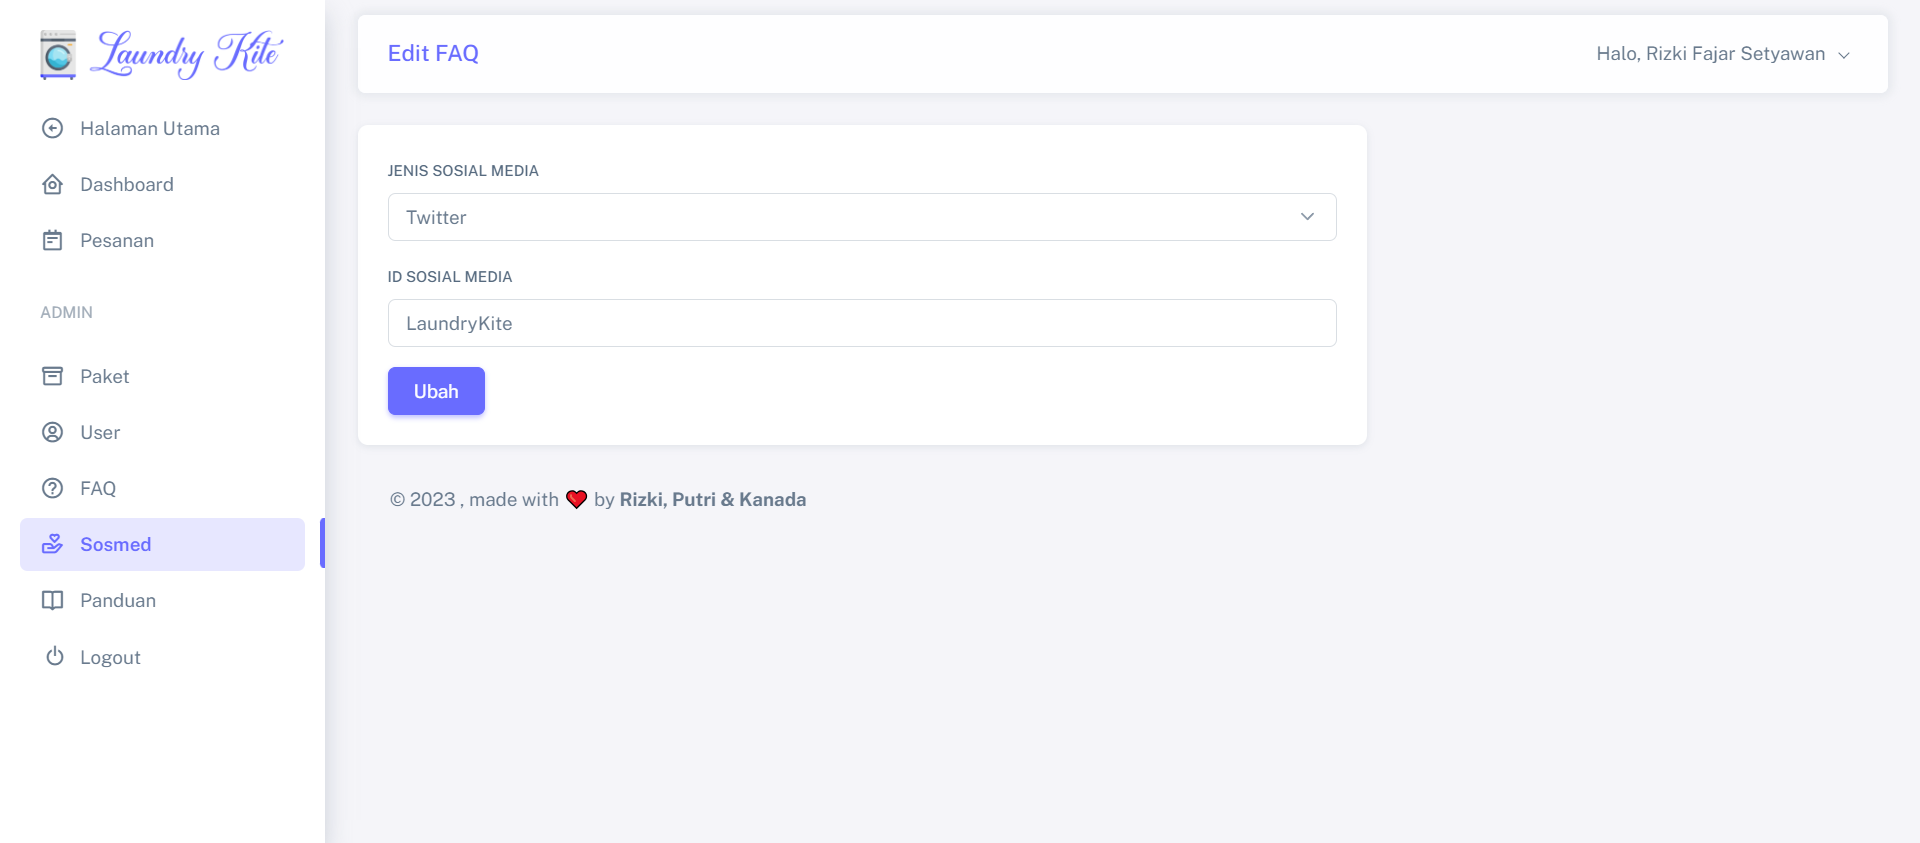
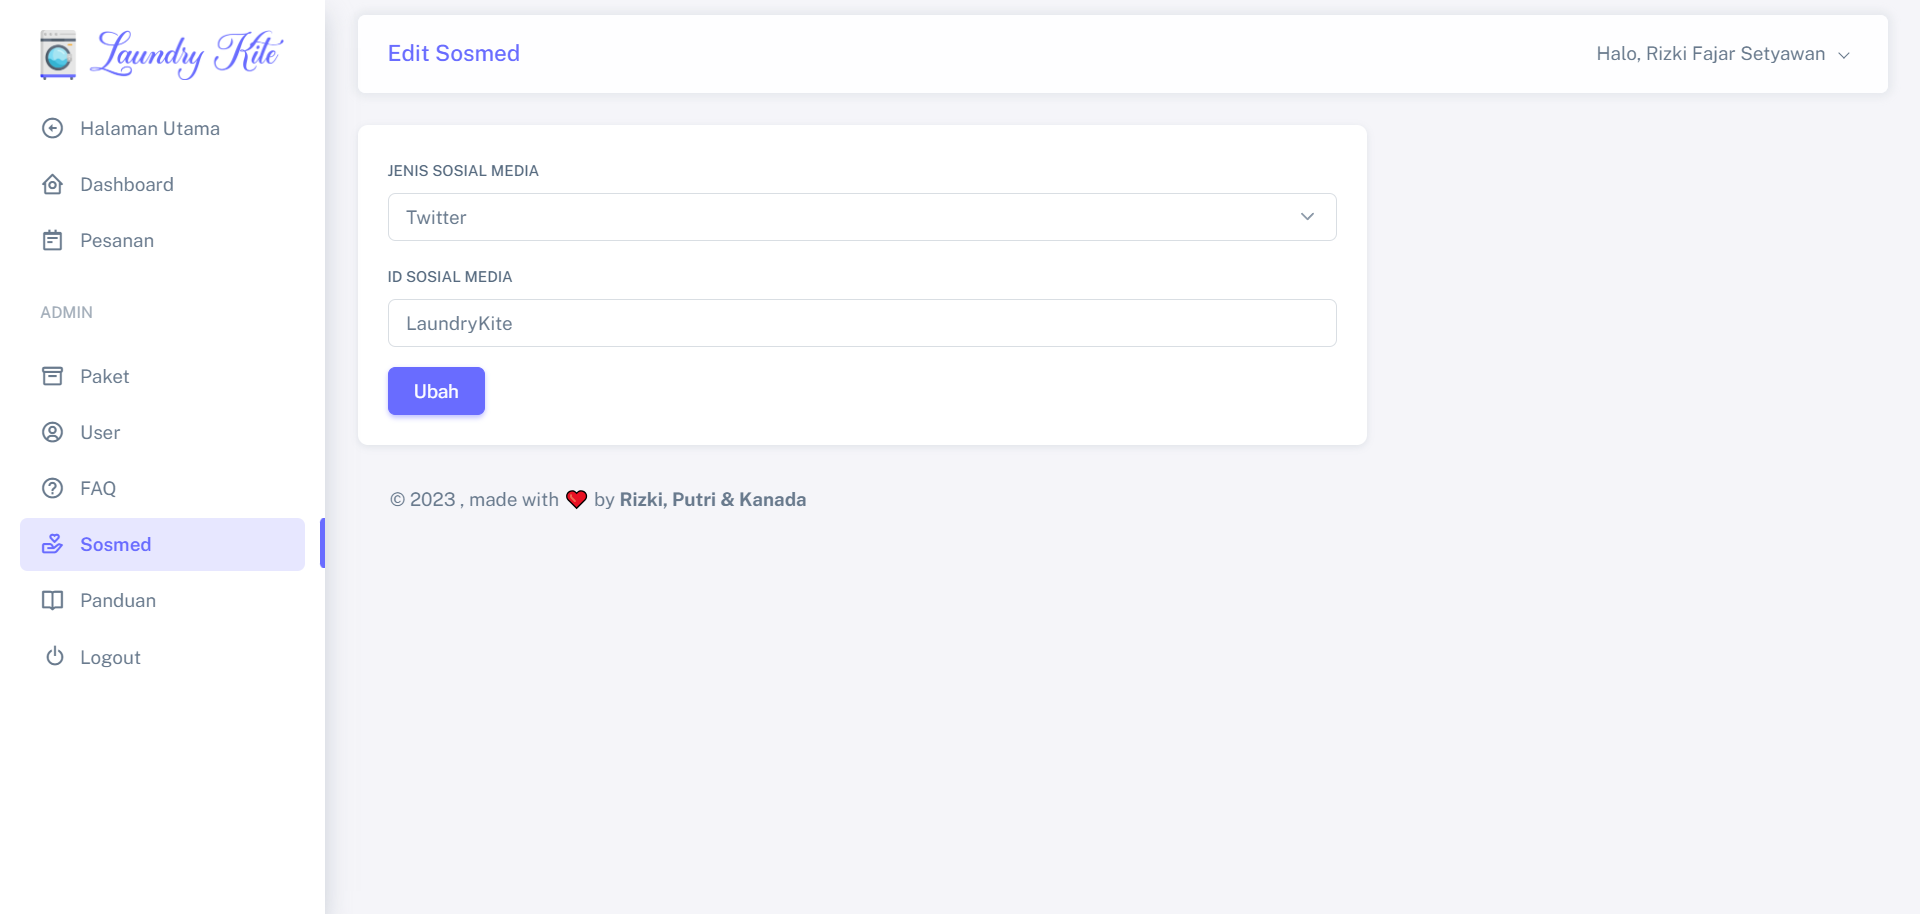
perbaiki typo, ganti gambar & update view panduan sosmed

diff --git a/resources/views/dashboard/sosmed/edit.blade.php b/resources/views/dashboard/sosmed/edit.blade.php
@@ -1,48 +1,50 @@
 @extends('layouts.admin')
 @section('judul')
-Edit FAQ
+    Edit Sosmed
 @endsection
 @section('content')
-<!-- Content -->
+    <!-- Content -->
 
-<div class="container-xxl flex-grow-1 container-p-y">   
-    <!-- Hoverable Table rows -->
-              <div class="row">
-                <div class="col-lg-8 col-sm-12 col-md-12">                     
-                  @if ($errors->any())
-                  <div class="alert alert-danger">
-                      <strong>Error!</strong> <br>
-                      <ul>
-                          @foreach ($errors->all() as $error)
-                              <li>{{ $error }}</li>
-                          @endforeach
-                      </ul>
-                  </div>
-                  @endif
-                  <div class="card mb-4">
-                    <div class="card-body">
-                      <form action="{{ route('sosmed.update',$sosmed->id) }}" method="POST">
-                        @csrf
-                        @method('PUT')
-                        <div class="mb-3">
-                          <label for="exampleFormControlSelect1" class="form-label">Jenis Sosial Media</label>
-                          <select class="form-select" id="jenis"  name="jenis" aria-label="Default select example">
-                            <option selected="" value="{{ $sosmed->jenis }}">{{ $sosmed->jenis }}</option>
-                            <option value="Twitter">Twitter</option>
-                            <option value="Facebook">Facebook</option>
-                            <option value="Instagram">Instagram</option>
-                            <option value="LinkedIn">LinkedIn</option>
-                          </select>
-                        </div>
-                        <div class="mb-3">
-                          <label class="form-label" for="basic-default-fullname">ID Sosial Media</label>
-                          <input name="sosmed_id" type="text" class="form-control" id="sosmed_id"  value="{{ $sosmed->sosmed_id }}"/>
-                        </div>
-                        <button type="submit" class="btn btn-primary">Ubah</button>
-                      </form>
+    <div class="container-xxl flex-grow-1 container-p-y">
+        <!-- Hoverable Table rows -->
+        <div class="row">
+            <div class="col-lg-8 col-sm-12 col-md-12">
+                @if ($errors->any())
+                    <div class="alert alert-danger">
+                        <strong>Error!</strong> <br>
+                        <ul>
+                            @foreach ($errors->all() as $error)
+                                <li>{{ $error }}</li>
+                            @endforeach
+                        </ul>
                     </div>
-                  </div>
+                @endif
+                <div class="card mb-4">
+                    <div class="card-body">
+                        <form action="{{ route('sosmed.update', $sosmed->id) }}" method="POST">
+                            @csrf
+                            @method('PUT')
+                            <div class="mb-3">
+                                <label for="exampleFormControlSelect1" class="form-label">Jenis Sosial Media</label>
+                                <select class="form-select" id="jenis" name="jenis"
+                                    aria-label="Default select example">
+                                    <option selected="" value="{{ $sosmed->jenis }}">{{ $sosmed->jenis }}</option>
+                                    <option value="Twitter">Twitter</option>
+                                    <option value="Facebook">Facebook</option>
+                                    <option value="Instagram">Instagram</option>
+                                    <option value="LinkedIn">LinkedIn</option>
+                                </select>
+                            </div>
+                            <div class="mb-3">
+                                <label class="form-label" for="basic-default-fullname">ID Sosial Media</label>
+                                <input name="sosmed_id" type="text" class="form-control" id="sosmed_id"
+                                    value="{{ $sosmed->sosmed_id }}" />
+                            </div>
+                            <button type="submit" class="btn btn-primary">Ubah</button>
+                        </form>
+                    </div>
                 </div>
-              </div>
-    <!-- / Content -->
+            </div>
+        </div>
+        <!-- / Content -->
     @endsection

diff --git a/resources/views/dashboard/panduan/sosmed.blade.php b/resources/views/dashboard/panduan/sosmed.blade.php
@@ -33,21 +33,22 @@
                                 <div class="card-body">
                                     <h5 class="card-title">Panduan - Mengedit Sosmed</h5>
                                     <p class="card-text">Pada panduan ini sebagai seorang admin anda dapat mengedit sosmed
-                                        yang digunakan pada Aplikasi Web "Loundry Kite".</p>
+                                        yang digunakan pada Aplikasi Web "Loundry Kite", dengan mengubah nama aplikasi dan
+                                        ID / Username.</p>
                                 </div>
-                                <img src="{{ asset('assets/img/panduan/faq3.png') }}" class="card-img-top border rounded"
+                                <img src="{{ asset('assets/img/panduan/sosmed3.png') }}" class="card-img-top border rounded"
                                     alt="#">
                             </div>
-                            {{-- <div class="card shadow-sm">
+                            <div class="card shadow-sm">
                                 <div class="card-body">
-                                    <h5 class="card-title">Panduan - Menghapus FAQ</h5>
-                                    <p class="card-text">Pada panduan ini sebagai seorang admin anda dapat menghapus FAQ
-                                        yaitu pertanyaan dan jawaban yang sering ditanyakan oleh customer dengan meng-klik
+                                    <h5 class="card-title">Panduan - Menghapus Sosmed</h5>
+                                    <p class="card-text">Pada panduan ini sebagai seorang admin anda dapat menghapus sosmed
+                                        yang digunakan pada Aplikasi Web "Loundry Kite" dengan meng-klik
                                         tombol "Delete" yang berwarna merah.</p>
                                 </div>
-                                <img src="{{ asset('assets/img/panduan/faq4.png') }}" class="card-img-top border rounded"
+                                <img src="{{ asset('assets/img/panduan/sosmed4.png') }}" class="card-img-top border rounded"
                                     alt="#">
-                            </div> --}}
+                            </div>
                         </div>
                     </div>
                 </div>
